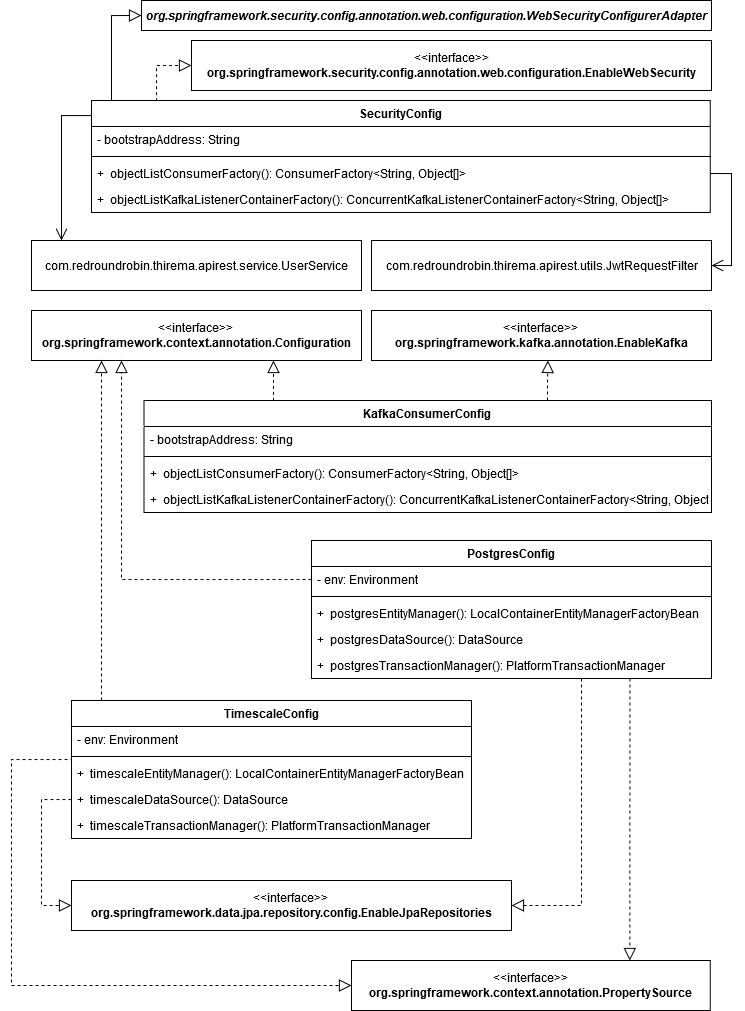
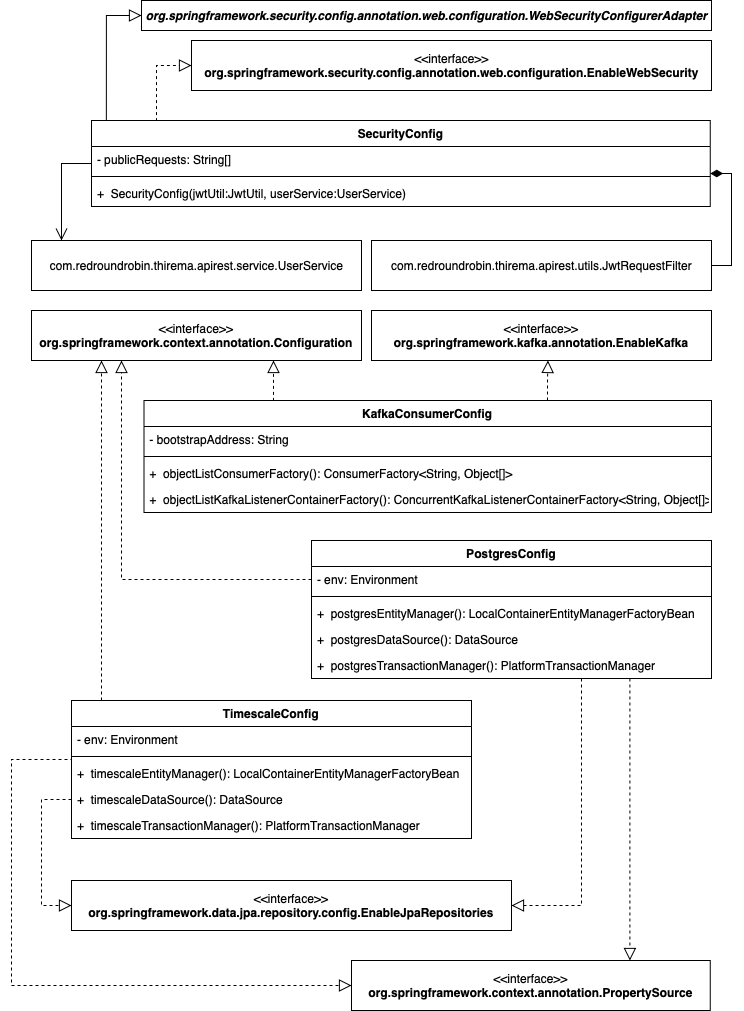
Update manuale manutentore

diff --git a/esterni/manuale_manutentore/res/sections/api.tex b/esterni/manuale_manutentore/res/sections/api.tex
@@ -1,7 +1,7 @@
 \subsection{API}
 	La componente \textit{API} è il core dell'intera architettura; permette all'applicazione web di interfacciarsi con i due database menzionati precedentemente, oltre che con un bot Telegram.
 	\newline
-	La componente è stata sviluppata in Java 11, utilizzando del framework Spring: Spring boot, Spring security, Spring kafka e Spring jpa; per l'autenticazione web è stato usato Json Web Token.
+	La componente è stata sviluppata in Java 11, utilizzando dei framework Spring: Spring boot, Spring security, Spring kafka e Spring jpa; per l'autenticazione web è stato usato Json Web Token.
 
 	\subsubsection{Diagramma dei package}%%%%%%%%%%%%%%OK
 		\begin{figure}[H]
@@ -10,6 +10,20 @@
 			\caption{Diagramma dei packages per la componente API}
 			\label{Diagramma 10}
 		\end{figure}
+
+	\subsubsection{Dipendenze esterne}
+		La componente \textit{API} he le seguenti dipendenze esterne:
+		\begin{itemize}
+			\item \textbf{Spring Boot}, che viene utilizzato per rendere le API un microservizio; 
+			\item \textbf{Spring Boot Jpa}, contenuta nel framework precedente, viene utilizzata per permettere al package Repository e Config di interfacciarsi direttamente con il database;
+			\item \textbf{Spring Boot Starter Security}, contenuta nel framework Spring Boot, viene utilizzata per gestire la sicurezza nell'accesso alle API;
+			\item \textbf{SpringBoot Starter Test}, contenuta nel framework Spring Boot, viene utilizzata per eseguire i test.
+			\item \textbf{org.Moquito}, libreria usata per fare simulare il comportamento di alcune funzioni, in fase di test.
+			\item \textbf{io.jsonwebtoken}, libreria usata per la creazione di token necessari all'accesso ad aree riservate della API.
+			\item \textbf{Spring Kafka}, libreria utilizzata per la comunicazione con Kafka;
+			\item \textbf{Spring Doc}, libreria utilizzata per la visualizzazione delle richieste API tramite interfaccia web;
+			\item \textbf{org.postgreSql.Driver}, che viene utilizzato per la connessione con DBMS di tipo Postgres; 
+		\end{itemize}
 
 	\subsubsection{Diagrammi delle classi}
 		Al fine di semplificare la comprensione delle dipendenze della componente API, si è deciso di suddividere i diagrammi per package, mostrando in dettaglio quelli più significativi.
@@ -67,3 +81,13 @@
 			\label{Diagramma 18}
 		\end{figure}
 	\end{landscape}
+
+	\subsubsection{Estensione}
+		\paragraph{Aggiungere una richiesta API}
+			Per inserire una nuova richiesta è necessario, se non si usano le classi già esistenti è necessario che la nuova classe creata che implementi l'interfaccia RestController tramite la notazione \textit{@RestController} da inserire precedentemente alla definizione della classe.
+			All'interno della classe è necessario definire una funzione usando una notazione di tipo mapping, ad esempio "@GetMapping", inserendo all'interno delle parentesi tonde la stringa associata all'URI della richiesta che si vuole implementare.
+			Ad esempio:
+			\begin{verbatim}
+			@GetMapping(value = \{"/{deviceId:.+}/sensors"\})
+			\end{verbatim}
+			Per esporre una risorsa senza necessità di autenticazione è necessario aggiungere all'array publicRequests l'URL della richiesta. L'array publicRequests è un attributo della classe SecurityConfig.

diff --git a/esterni/manuale_manutentore/res/sections/dataCollector.tex b/esterni/manuale_manutentore/res/sections/dataCollector.tex
@@ -15,6 +15,12 @@
 				\caption{Diagramma dei package della componente data collector}
 				\label{Diagramma 5}
 			\end{figure}
+		\subsubsection{Dipendenze esterne}
+			La componente ha due dipendenze esterne:
+			\begin{itemize}
+				\item \textbf{KafkaProducer<K, V>}, classe concreta che implementa l'interfaccia Producer<K,V>. Svolge il compito di client per il cluster kafka, pubblicando dati all'interno di un topic. La classe DataFilter ne possiede un riferimento.
+				\item \textbf{KafkaConsumer<K,V>}, classe concreta che implementa l'interfaccia Consumer<K,V>. Svolge il compito di client per il cluster Kafka, consumando i messaggi resenti all'interno di uno o più topic. La classi DataInserter e DataFilter ne possiedono un riferimento.	
+			\end{itemize}	
 		\begin{landscape}
 		\subsubsection{Diagramma delle classi}%%%%%%%%%%%%%%%%%%%%%%%OK
 			\begin{figure}[H]
@@ -32,10 +38,24 @@
 				\caption{Diagramma di sequenza in cui viene mostrato il funzionamento del filtraggio dati nella componente data collector}
 				\label{Diagramma 7}
 			\end{figure}
+			Come si evince dal diagramma in alto, funzionamento di DataFilter è il seguente:
+			\begin{itemize}
+				\item DataFilter apre la connessione con il database relazionale Postgre;
+				\item vengono quindi estratti i dati dai topic Kafka collegati ai gateway;
+				\item i valori vengono filtrati garantendo che il dispositivo ed il sensore siano presenti nel database e che i valori rilevati superino la soglia impostata.
+				\item i valori vengono filtrati nuovamente per verificare che gli utenti a cui dovrebbero arrivare abbiano configurato il bot Telegram correttamente;
+				\item infine vengono prodotti un insieme di messaggi di alert che, tramite un produttore vengono inseriti nel topic kafka "alerts". 
+			\end{itemize}
 			\begin{figure}[H]
 				\centering
 				\includegraphics[scale=0.550]{res/images/DATACOLLECTOR/DataInserter.ThreadsKafkaDataCollector.png}
 				\caption{Diagramma di sequenza in cui viene mostrato il funzionamento dell'inserimento dati nella componente data collector}
 				\label{Diagramma 8}
 			\end{figure}
+			Il comportamento di DataInserter è il seguente:
+			\begin{itemize}
+				\item DataInserter apre una connessione con il database Timescale;
+				\item Ogni qualvolta il suo Consumer trova dei nuovi dati nel topic collegati ai gateway, vengono inviati i messaggi al DataInserter;
+				\item DataInserter infine inserisce i dati all'interno del database.
+			\end{itemize}
 	\end{landscape}

diff --git a/esterni/manuale_manutentore/res/sections/telegram.tex b/esterni/manuale_manutentore/res/sections/telegram.tex
@@ -10,10 +10,32 @@
 		\caption{Diagramma delle classi della componente bot Telegram}
 		\label{Diagramma 19}
 	\end{figure}
+\subsubsection{Dipendenze esterne}	
+	La componente ha tre dipendenze esterne:
+	\begin{itemize}
+		\item \textbf{Telegraf}, modulo che permette di collegarsi con le API ufficiali di Telegram. Ogni comando ne ha un riferimento. 
+		\item \textbf{Axios}, modulo che permette di effettuare richieste POST e GET e di ritornare una risposta. Viene utilizzato da Server, Login e Status per comunicare con le \textit{API} e per inviare uno o più messaggi agli utilizzatori del bot;
+		\item \textbf{HTTP}, modulo che permette di creare un server HTTP per restare in ascolto di eventuali richieste. Viene utilizzato da Server per ascoltare eventali richieste delle \textit{API}.    
+	\end{itemize}
 \subsubsection{Diagramma di sequenza}%%%%%%%%%OK
 	\begin{figure}[H]
 		\centering
 		\includegraphics[scale=0.600]{res/images/BOTTELEGRAM/TelegramRichiestaPOST.png}
-		\caption{Diagramma di sequenza che riporta la ricezione di una richiesta POST delle api all'interno della componente bot Telegram}
+		\caption{Diagramma di sequenza che riporta la ricezione di una richiesta POST delle \textit{API} all'interno della componente bot Telegram}
 		\label{Diagramma 20}
 	\end{figure}
+
+	Nel diagramma di sequenza in alto viene mostrata la ricezione di una richiesta POST dalle \textit{API}. La richiesta può essere di due tipologie: 
+	\begin{itemize}
+		\item authentication, in cui vengono inviati dalle \textit{API} un chat Id ed un codice di autenticazione. Quest'ultimo dovrà poi essere inviato al chat Id specificato per permettere all'utente l'autenticazione sulla webapp;
+		\item alert, in cui vengono mandati dalle \textit{API} una lista di chat id ed un insieme di dati che poi andranno composti in un messaggio ed inviati a tutti i chat Id specificati.
+	\end{itemize}
+\subsubsection{Estensione}
+	\paragraph{Inserimento di un nuovo comando}
+		Per inserire un nuovo comando all'interno del bot è necessario creare un file .js all'interno della cartella commands. Poichè sarà poi necessario esportare questo comando per poi inserirlo all'interno di main.js l'intestazione del nuovo comando dovrà essere del tipo:
+		\begin{verbatim}const botNomeComando = (bot) => {
+								bot.command( "nomeComando", (param) => {
+							 		...
+							 	});
+						}; 
+		\end{verbatim}	

diff --git a/esterni/manuale_manutentore/res/sections/webApp.tex b/esterni/manuale_manutentore/res/sections/webApp.tex
@@ -8,10 +8,27 @@
 	\subsubsection{Diagramma dei package}%%%%%%%%%OK
 		\begin{figure}[H]
 			\centering
-			\includegraphics[scale=0.600]{res/images/WEBAPP/WebAppPackage.png}
+			\includegraphics[scale=0.450]{res/images/WEBAPP/WebAppPackage.png}
 			\caption{Diagramma dei package della componente web app}
 			\label{Diagramma 21}
 		\end{figure}
+	
+	\subsubsection{Dipendenze esterne}
+		La componente ha le seguenti dipendenze esterne:
+		\begin{itemize}
+			\item \textbf{Laravel}, framework alla base della webapp, da cui vengono prese le basi dei controllers e dei models. Inoltre è il gestore delle view;
+			\item \textbf{Laravel/UI}, viene utilizzata per l'autenticazione all'interno della webapp;
+			\item \textbf{guzzlehttp/guzzle}, viene utilizzata per effettuare richieste HTTP in linguaggio PHP;
+			\item \textbf{Axios}, viene utilizzata per effettuare delle richieste HTTP in Javascript;
+			\item \textbf{Datatables.js}, viene utilizzata per la paginazione delle tabelle;
+			\item \textbf{Apexcharts}, viene utilizzata per fare i grafici visibili all'interno dell'applicazione web;
+			\item \textbf{davejamesmiller/laravel-breadcrumbs}, questa dipendenza viene utilizzata per generare i breadcrumb all'interno delle pagine visualizzate;
+			\item \textbf{Vue.js}, framework che permette, tra le altre cose, di utilizzare array e variabili all'interno delle pagine per permetterne una visualizzazione dinamica dei contenuti;
+			\item \textbf{Bootstrap}, framework utilizzato per la creazione dell'interfaccia grafica dell'applicazione web;
+			\item \textbf{JQuery}, libreria utilizzata da Bootstrap per molte delle sue componenti;
+			\item \textbf{Popper.js}, altra libreria utilizzata da Bootstrap.
+		\end{itemize}
+
 
 	\begin{landscape}
 	\subsubsection{Diagrammi delle classi}%%%%%%%%%%OK

diff --git a/esterni/manuale_manutentore/res/sections/kafka.tex b/esterni/manuale_manutentore/res/sections/kafka.tex
@@ -15,13 +15,20 @@
 		soglie stabilite.
 		% ...e nel buio incatenarli.
 	\end{itemize}
-	Per effettuare il rilascio di questa componente è stato realizzato un apposito file docker-compose (al cui interno sono presenti anche le altre componenti) che imposta automaticamente gli indirizzi e le porte in cui ascoltare e ricevere i messaggi.
+	Per effettuare il rilascio di questa componente è stato realizzato un apposito file docker-compose (al cui interno sono presenti anche le altre componenti) che imposta automaticamente gli indirizzi e le porte in cui ascoltare e ricevere i messaggi. Quindi per modificare le configurazioni del broker kafka o per aggiungerne altri è sufficiente modificare il file docker-compose.yml fornito.
 	\newline
 	Di seguito viene riportato un piccolo estratto del file di configurazione.
 
-	\begin{figure}[H]
+		\begin{figure}[H]
 			\centering
 			\includegraphics[scale=0.470]{res/images/estrattoKafka_dockerCompose.png}
 			\caption{Estratto del file docker-compose.yml in cui viene impostato Kafka}
 			\label{Immagine 1}
-		\end{figure}		
+		\end{figure}
+	\subsubsection{Estensione}
+		\paragraph{Aggiungere un broker Kafka}
+		Per aggiungere un ulteriore broker è necessario modificare il file docker-compose.yml. 
+		All'interno del file è necessario creare un nuovo service in cui è necessario copiare il broker preesistente modificandone il nome del servizio, il nome del container e la mappatura della porte, prestando attenzione a mantenere le stesse porte interne.
+		Per poterlo utilizzare è necessario solamente specificare le nuove porte assegnate. all'interno delle componenti.
+		Per modificare le configurazioni si consiglia di seguire il link seguente: \url{https://github.com/bitnami/bitnami-docker-kafka}   
+	

diff --git a/esterni/manuale_manutentore/res/sections/database.tex b/esterni/manuale_manutentore/res/sections/database.tex
@@ -16,14 +16,6 @@
 			\item gateway\_name: text
 			\item value: double
 		\end{itemize}
-		\item Alerts
-		\begin{itemize}
-			\item time: timestamptz
-			\item real\_sensor\_id: integer
-			\item real\_device\_id: integer
-			\item gateway\_name: text
-			\item value: double
-		\end{itemize}
 		\item Logs
 		\begin{itemize}
 			\item time: timestamptz
@@ -44,3 +36,11 @@
 				\label{Diagramma 9}
 			\end{figure}
 			\end{landscape}
+	\subsubsection{Estensioni}
+		\paragraph{Duplicazione dei dati nel database Timescale}
+			Per aggiungere un fattore di duplicazione ai dati è necessario modificare il file docker-compose.yml inserendo un nuovo servizio: il servizio che si andrà a duplicare sarà quello di Timescale, che andrà copiato e modificato.
+			Sarà infatti necessario modificare il nome del servizio e del container, la mappatura delle porte (prestando attenzione a mantenere la porta interna specificata) ed infine i volumi. Per effettuare la persistenza dei dati sarà infine necessario inserire il nuovo volume mappato all'interno di "volumes".
+			Conclusa questa procedura sarà possibile inserire il nuovo database all'interno della componente DataCollector, specificando il corretto indirizzo.
+
+		\paragraph{Modifica impostazioni d'accesso ai database}	
+			Per modificare le impostazioni di accesso ai database è necessario modificare le variabili d'ambiente all'interno dei rispettivi Dockerfile.		

diff --git a/esterni/manuale_manutentore/res/sections/tecnologie.tex b/esterni/manuale_manutentore/res/sections/tecnologie.tex
@@ -20,8 +20,9 @@
 			Questo framework permette di realizzare applicazioni web utilizzando una sintassi espressiva ed elegante. Nel progetto è stato utizzato per sviluppare la componente web app. Per maggiori informazioni visitare il seguente link: \url{https://laravel.com}
 		\subsubsection{Vue.js}
 			Questo framework permette di scrivere pagine web reattive e dalla sintassi elegante. Nel progetto è stato utilizzato per sviluppare la componente web app. per maggiori informazioni visitare il seguente link: \url{https://vuejs.org}
-		\subsubsection{Axios}
-			Questo modulo Javascript viene utilizzato all'interno del bot Telegram per effettuare e ricevere richieste HTTP. per maggiorni informazioni visitare il link seguente: \url{https://axios.nuxtjs.org}
+		\subsubsection{Boostrap}
+			Questo framework permette di sviluppare siti web e webapp responsive. Nel progetto è stato utilizzato nella creazione delle view della nostra webapp.
+			Per maggiori informazioni visitare il seguente link: \url{https://getbootstrap.com/docs/4.4/getting-started/introduction/}	
 		\subsubsection{Telegraf}
 			Questo modulo Javascript viene usato all'interno della componente bot Telegram per creare ed interfacciarsi con le \href{https://core.telegram.org/bots/api}{API ufficiali di Telegram}. Per maggiori informazioni visistare il link seguente: \url{https://telegraf.js.org} 
 	

diff --git a/esterni/manuale_manutentore/res/sections/gateway.tex b/esterni/manuale_manutentore/res/sections/gateway.tex
@@ -15,6 +15,12 @@
 			\caption{Diagramma dei package per la componente gateway}
 			\label{Diagramma 1}
 		\end{figure}
+	\subsubsection{Dipendenze esterne}	
+		La componente gateway ha due dipendenze esterne: 
+			\begin{itemize}
+				\item \textbf{KafkaProducer<K, V>}, classe concreta che implementa l'interfaccia Producer<K,V>. Svolge il compito di client per il cluster kafka, pubblicando dati all'interno di un topic. La classe Producer ne possiede un riferimento.
+				\item \textbf{KafkaConsumer<K,V>}, classe concreta che implementa l'interfaccia Consumer<K,V>. Svolge il compito di client per il cluster Kafka, consumando i messaggi resenti all'interno di uno o più topic. La classe Consumer ne possiede un riferimento.
+			\end{itemize}	
 		\newpage		
 
 	\begin{landscape}
@@ -24,7 +30,7 @@
 				\includegraphics[scale=0.499]{res/images/GATEWAY/ClassiGateway.png}
 				\caption{Diagramma delle classi per la componente gateway}
 				\label{Diagramma 2}
-			\end{figure}	
+			\end{figure}
 	\end{landscape}
 		
 	\begin{landscape}

diff --git a/esterni/manuale_manutentore/res/sections/requisiti.tex b/esterni/manuale_manutentore/res/sections/requisiti.tex
@@ -1,0 +1,25 @@
+\subsection{Requisiti}
+	\subsubsection{Sistema}
+	\begin{itemize}
+		\item \textbf{Docker} nella versione 19.x.x;
+		\item \textbf{docker-compose} nella versione 1.25.x;
+	\end{itemize}
+	\subsubsection{Interfaccia web}
+		\begin{itemize}
+		 	\item \textbf{Firefox} a partire dalla versione 69.0;
+		 	\item \textbf{Chrome} a partire dalla versione 75.0;
+		 	\item \textbf{Safari} a partire dalla versione 13.0;
+		 	\item \textbf{Edge} a partire dalla versione 42.0.
+		\end{itemize} 
+	\subsubsection{Linguaggi di programmazione}
+		\begin{itemize}
+			\item \textbf{Java} nella versione 11;
+			\item \textbf{PHP} nella versione 7.3+;
+			\item \textbf{Javascript};
+		\end{itemize}
+	\subsubsection{Gestori di dipendenze}
+		\begin{itemize}
+			\item \textbf{npm} nella versione 6.13.x+;
+			\item \textbf{composer} nella versione 1.1.x;
+			\item \textbf{maven} nella versione 3.6.x; 
+		\end{itemize}

diff --git a/esterni/manuale_manutentore/res/sezioni.tex b/esterni/manuale_manutentore/res/sezioni.tex
@@ -4,10 +4,10 @@
 % Pro tip: usare il comando \yetAnotherSectionNamed{nome_file}
 
 \yetAnotherSectionNamed{introduzione}
-\yetAnotherSectionNamed{infoGenerali}
 \yetAnotherSectionNamed{tecnologie}
+\yetAnotherSectionNamed{Requisiti}
 \yetAnotherSectionNamed{architettura}
-\yetAnotherSectionNamed{estensione}
+
 
 
 
